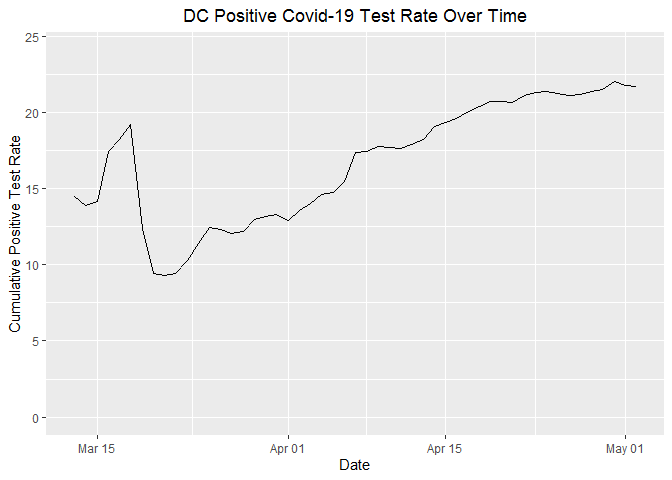
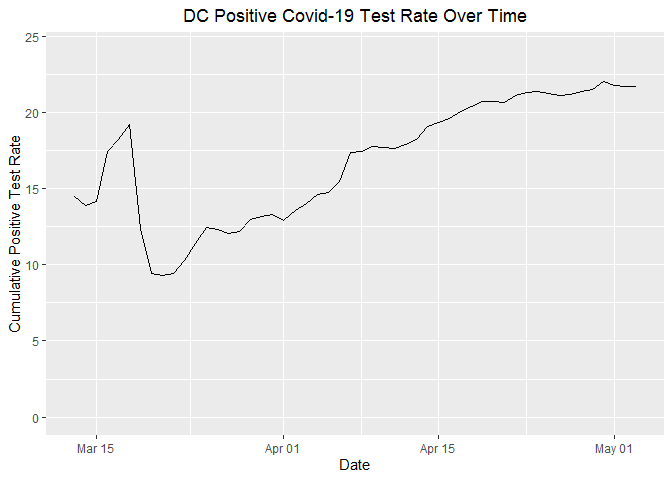
Update with 3 May DC data

diff --git a/Markdown/Pos_Test_Rate.md b/Markdown/Pos_Test_Rate.md
@@ -1,7 +1,7 @@
 Positive Covid-19 Test Rate Increases Around DC
 ================
 
-2020-05-03 17:24:55
+2020-05-04 10:44:58
 
 The number of Covid-19 tests conducted in the DC area increased
 considerably through the first part of April and has generally plateaued
@@ -26,7 +26,7 @@ Maryland is 19.2%, and the rate in Virginia is 17.3%.
 
 The recent increases in positive test rates are more pronounced when
 displayed as recent, rather than cumulative, averages. The average
-positive test rate between 2020-04-30 and 2020-05-02 was 22.9% in DC,
+positive test rate between 2020-05-01 and 2020-05-03 was 22.9% in DC,
 20.2% in Maryland, and 17.1% in Virginia.  
 \` ![](Pos_Test_Rate_files/figure-gfm/rolling_pos_rate-1.png)<!-- -->
 
